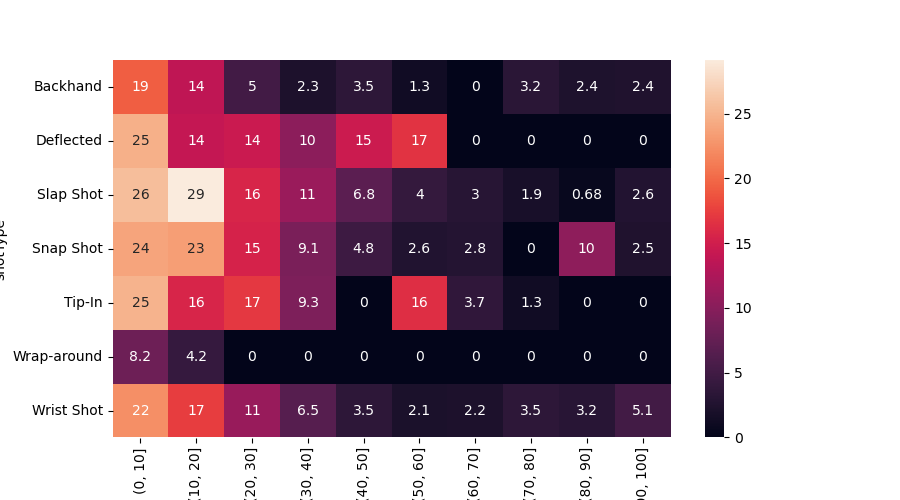
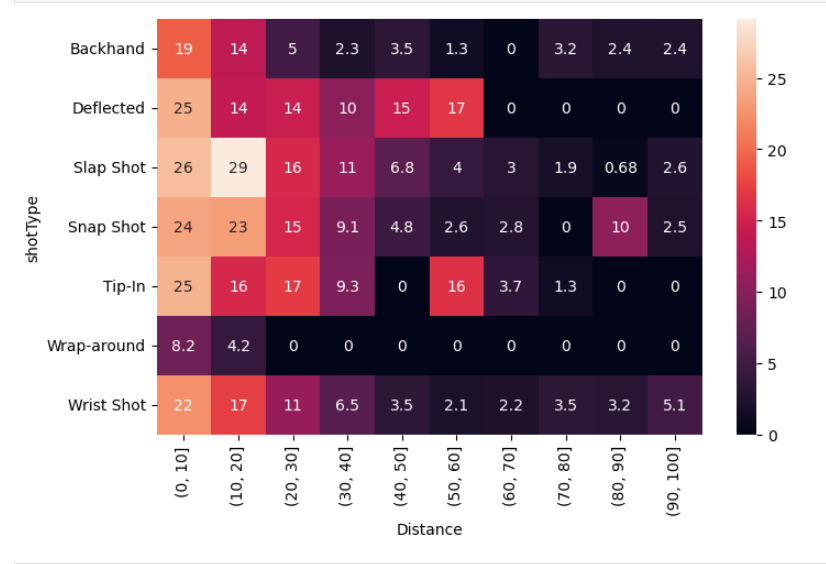
minor fixes 2

diff --git a/_posts/2021-09-28-milestone-1.md b/_posts/2021-09-28-milestone-1.md
@@ -277,7 +277,7 @@ For distance 0-50, the relationship is monotone: the smaller the distance, the h
 
 ### Combine the information from the previous sections to produce a figure that shows the goal percentage (# goals / # shots) as a function of both distance from the net, and the category of shot types (you can pick a single season of your c  hoice). Briefly discuss your findings; e.g. what might be the most dangerous types of shots?
 
-<img src="/assets/images/q5_3_heatmap.png" width="100%" height="100%" alt="">
+<img src="/assets/images/q5_3_heatmap.png" width="90%" height="90%" alt="">
 The heatmap shows the goal percentage as a function of **both** distance and shot types. On the horizontal axis, a distance category of 0 means the shot distance (Euclidean distance between shot and net) is between 0-10 feet, and a caterogy of 4 means the shot is taken from 40-50 feet. The value of box indicates the chance of scoring. 
 
 The most dangerous type of shots is *slap shot* taken within 10-20 feet of the net - it has a 29% chance of scoring. The least dangerous types of shot taken closed to the net (less than 20 feet) is the *wrap-around*. 
